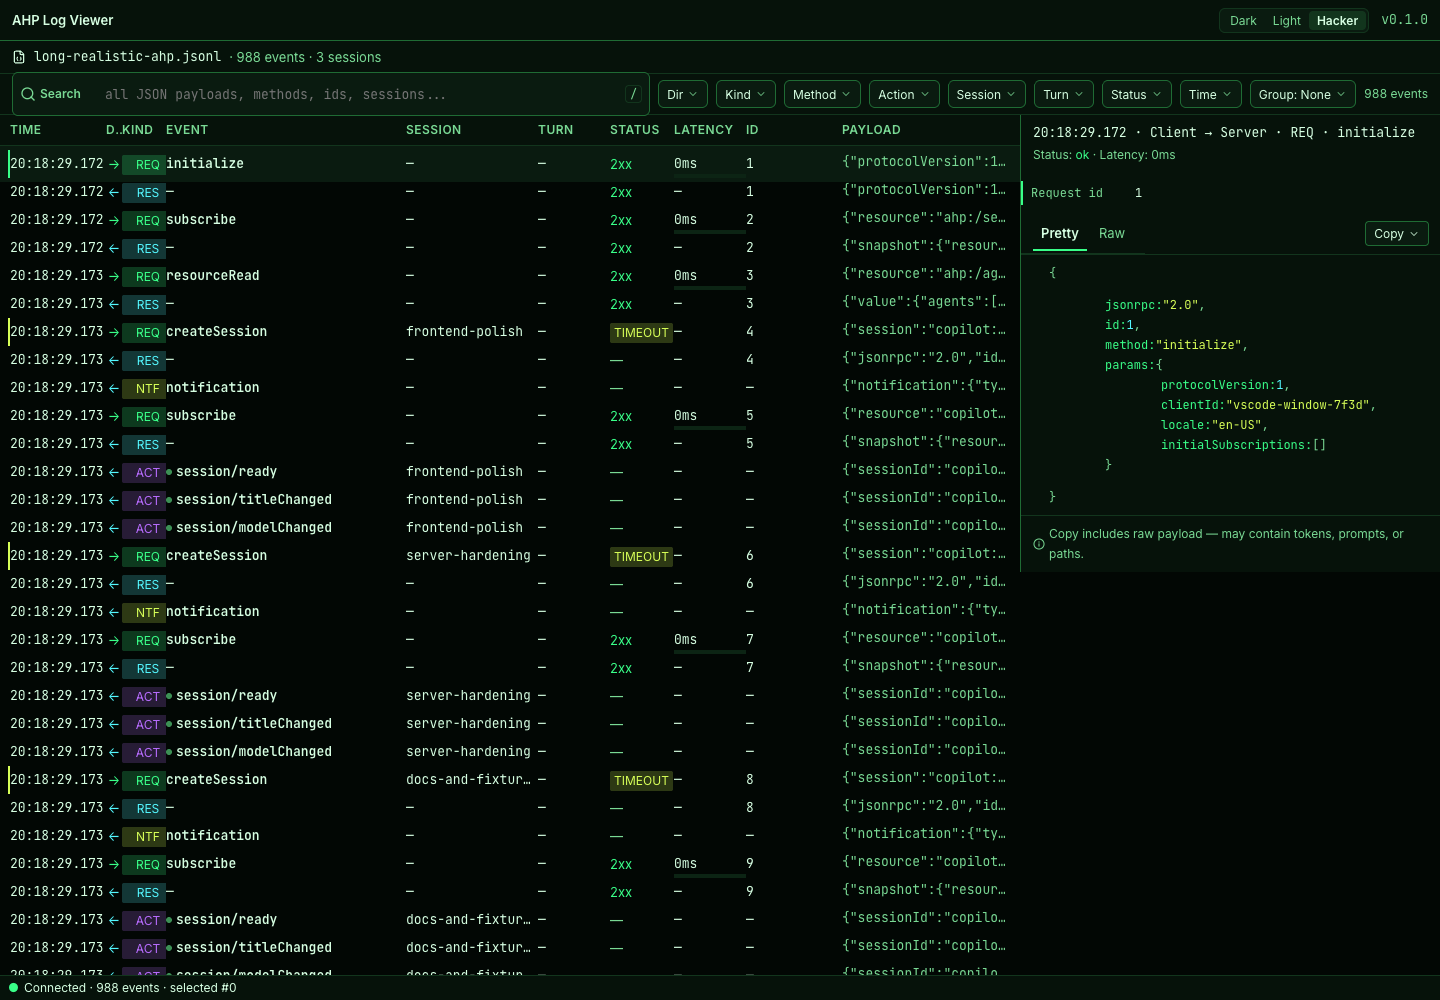
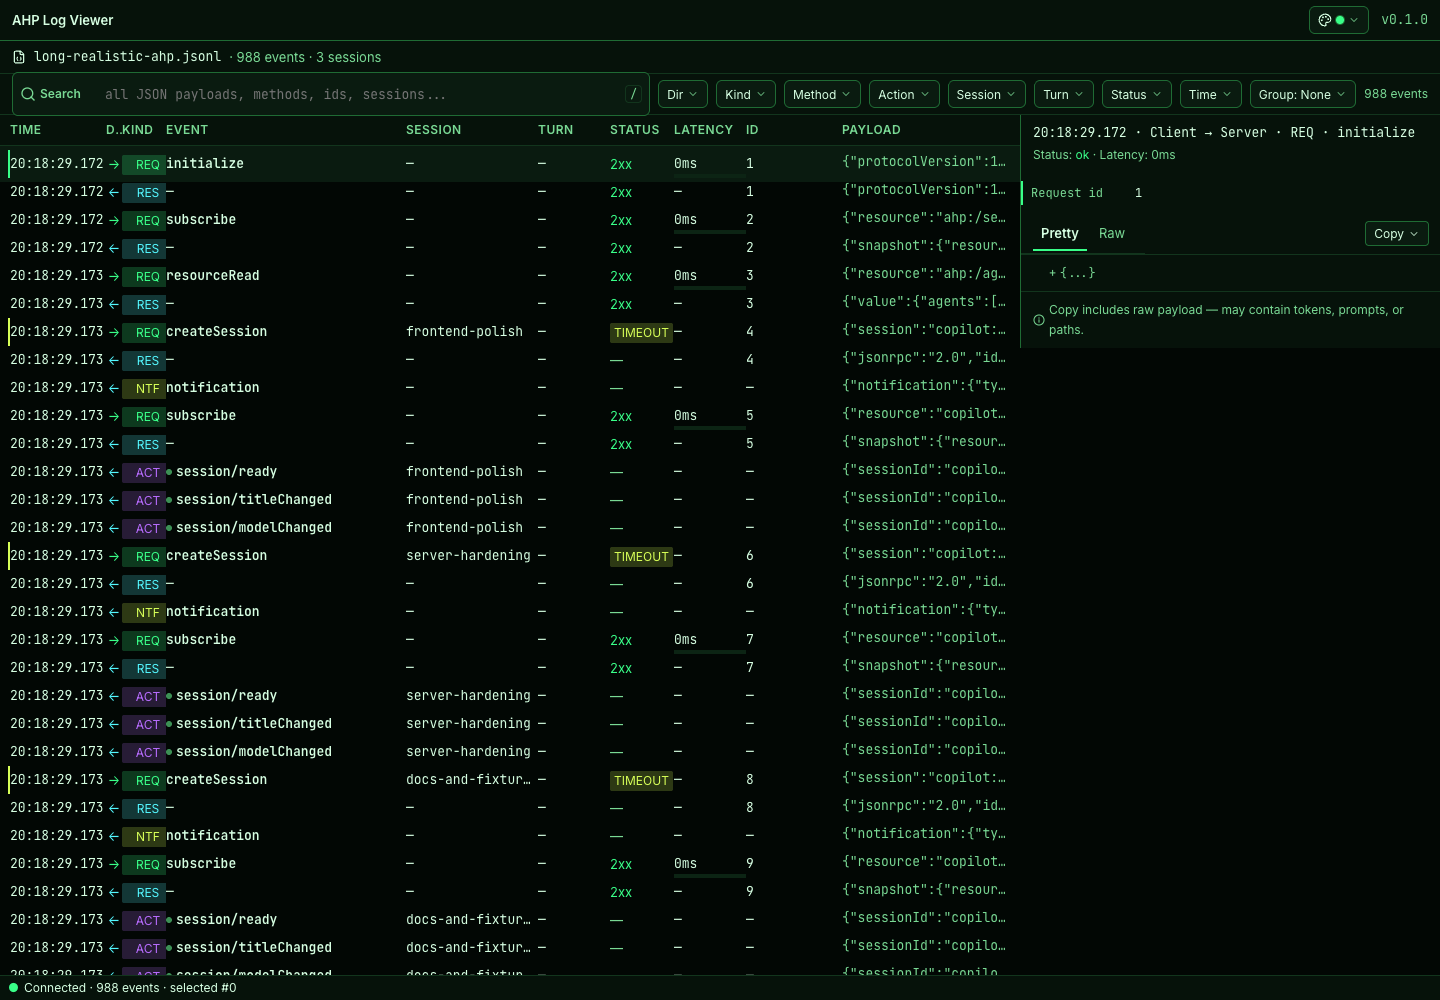
fix(ui): tuck theme picker into menu

Changed region(s): [[0.7188, 0.279, 0.9062, 0.465], [0.7188, 0.527, 0.9688, 0.558], [0.8438, 0.0, 0.9688, 0.031]]

diff --git a/packages/ui/src/components/shell/HeaderBar.tsx b/packages/ui/src/components/shell/HeaderBar.tsx
@@ -1,5 +1,6 @@
+import { Check, ChevronDown, Palette } from "lucide-react";
 import type { JSX } from "react";
-import { useState } from "react";
+import { useEffect, useRef, useState } from "react";
 import { __APP_VERSION__ } from "../../version.js";
 
 interface HeaderBarProps {
@@ -14,6 +15,12 @@ const THEMES = [
 
 type ThemeId = (typeof THEMES)[number]["id"];
 
+const THEME_LABEL: Record<ThemeId, string> = {
+  dark: "Dark",
+  light: "Light",
+  hacker: "Hacker",
+};
+
 function readTheme(): ThemeId {
   const attr = document.documentElement.getAttribute("data-theme");
   return attr === "light" || attr === "hacker" ? attr : "dark";
@@ -21,6 +28,19 @@ function readTheme(): ThemeId {
 
 export function HeaderBar({ version }: HeaderBarProps): JSX.Element {
   const [theme, setThemeState] = useState<ThemeId>(readTheme);
+  const [isThemeMenuOpen, setIsThemeMenuOpen] = useState(false);
+  const themeMenuRef = useRef<HTMLDivElement>(null);
+
+  useEffect(() => {
+    function handleMouseDown(event: MouseEvent): void {
+      if (themeMenuRef.current && !themeMenuRef.current.contains(event.target as Node)) {
+        setIsThemeMenuOpen(false);
+      }
+    }
+
+    document.addEventListener("mousedown", handleMouseDown);
+    return () => document.removeEventListener("mousedown", handleMouseDown);
+  }, []);
 
   function setTheme(next: ThemeId): void {
     document.documentElement.setAttribute("data-theme", next);
@@ -30,6 +50,7 @@ export function HeaderBar({ version }: HeaderBarProps): JSX.Element {
       // Ignore unavailable storage; the selected theme still applies for this page.
     }
     setThemeState(next);
+    setIsThemeMenuOpen(false);
   }
 
   return (
@@ -48,56 +69,97 @@ export function HeaderBar({ version }: HeaderBarProps): JSX.Element {
     >
       <span style={{ fontWeight: 600 }}>AHP Log Viewer</span>
       <div style={{ display: "flex", alignItems: "center", gap: "var(--space-3)" }}>
-        <fieldset
-          style={{
-            display: "inline-flex",
-            padding: 2,
-            border: "1px solid var(--color-border)",
-            borderRadius: 6,
-            background: "var(--color-surface-raised)",
-            margin: 0,
-          }}
-        >
-          <legend
+        <div ref={themeMenuRef} style={{ position: "relative" }}>
+          <button
+            type="button"
+            aria-label={`Theme picker (${THEME_LABEL[theme]})`}
+            aria-haspopup="menu"
+            aria-expanded={isThemeMenuOpen}
+            title={`Theme: ${THEME_LABEL[theme]}`}
+            onClick={() => setIsThemeMenuOpen((open) => !open)}
+            onMouseDown={(event) => event.stopPropagation()}
             style={{
-              position: "absolute",
-              width: 1,
-              height: 1,
-              padding: 0,
-              margin: -1,
-              overflow: "hidden",
-              clip: "rect(0, 0, 0, 0)",
-              whiteSpace: "nowrap",
-              border: 0,
+              display: "inline-flex",
+              alignItems: "center",
+              gap: "var(--space-1)",
+              height: 28,
+              padding: "0 var(--space-2)",
+              background: isThemeMenuOpen ? "var(--color-chip-bg-active)" : "var(--color-chip-bg)",
+              border: "1px solid var(--color-chip-border)",
+              borderRadius: 6,
+              color: "var(--color-chip-fg)",
+              cursor: "pointer",
+              fontFamily: "var(--font-sans)",
+              outline: "none",
             }}
           >
-            Theme
-          </legend>
-          {THEMES.map((option) => {
-            const active = theme === option.id;
-            return (
-              <button
-                key={option.id}
-                type="button"
-                aria-pressed={active}
-                onClick={() => setTheme(option.id)}
-                style={{
-                  border: "none",
-                  borderRadius: 4,
-                  padding: "2px var(--space-2)",
-                  background: active ? "var(--color-chip-bg-active)" : "transparent",
-                  color: active ? "var(--color-text)" : "var(--color-text-muted)",
-                  cursor: "pointer",
-                  fontFamily: "var(--font-sans)",
-                  fontSize: "var(--text-ui-muted-size)",
-                  fontWeight: active ? "var(--weight-semibold)" : "var(--weight-regular)",
-                }}
-              >
-                {option.label}
-              </button>
-            );
-          })}
-        </fieldset>
+            <Palette size={14} aria-hidden="true" />
+            <span
+              aria-hidden="true"
+              style={{
+                width: 8,
+                height: 8,
+                borderRadius: "50%",
+                background: "var(--color-accent)",
+                boxShadow: "0 0 0 1px var(--color-border-strong)",
+              }}
+            />
+            <ChevronDown
+              size={12}
+              aria-hidden="true"
+              style={{ color: "var(--color-chip-fg-muted)" }}
+            />
+          </button>
+          {isThemeMenuOpen && (
+            <div
+              role="menu"
+              aria-label="Theme"
+              style={{
+                position: "absolute",
+                top: "calc(100% + 4px)",
+                right: 0,
+                zIndex: 1200,
+                minWidth: 148,
+                padding: "var(--space-1) 0",
+                background: "var(--color-surface-raised)",
+                border: "1px solid var(--color-border-strong)",
+                borderRadius: 6,
+                boxShadow: "0 8px 24px rgba(0,0,0,0.35)",
+              }}
+            >
+              {THEMES.map((option) => {
+                const active = theme === option.id;
+                return (
+                  <button
+                    key={option.id}
+                    type="button"
+                    role="menuitemradio"
+                    aria-checked={active}
+                    onClick={() => setTheme(option.id)}
+                    style={{
+                      width: "100%",
+                      display: "flex",
+                      alignItems: "center",
+                      justifyContent: "space-between",
+                      gap: "var(--space-3)",
+                      padding: "var(--space-1) var(--space-3)",
+                      background: active ? "var(--color-chip-bg-active)" : "transparent",
+                      border: "none",
+                      color: active ? "var(--color-text)" : "var(--color-text-muted)",
+                      cursor: "pointer",
+                      fontFamily: "var(--font-sans)",
+                      fontSize: "var(--text-ui-muted-size)",
+                      textAlign: "left",
+                    }}
+                  >
+                    <span>{option.label}</span>
+                    {active && <Check size={12} aria-hidden="true" />}
+                  </button>
+                );
+              })}
+            </div>
+          )}
+        </div>
         <span className="mono" style={{ color: "var(--color-text-muted)" }}>
           v{version}
         </span>

diff --git a/packages/ui/src/components/shell/HeaderBar.test.tsx b/packages/ui/src/components/shell/HeaderBar.test.tsx
@@ -14,19 +14,43 @@ afterEach(() => {
 });
 
 describe("HeaderBar theme switcher", () => {
-  it("renders dark, light, and hacker theme controls", () => {
+  it("keeps theme names inside a compact picker menu", () => {
     render(<HeaderBar version="0.1.0" />);
-    expect(screen.getByRole("button", { name: "Dark" })).toBeInTheDocument();
-    expect(screen.getByRole("button", { name: "Light" })).toBeInTheDocument();
-    expect(screen.getByRole("button", { name: "Hacker" })).toBeInTheDocument();
+    expect(screen.getByRole("button", { name: /theme picker/i })).toBeInTheDocument();
+    expect(screen.queryByText("Dark")).toBeNull();
+    expect(screen.queryByText("Light")).toBeNull();
+    expect(screen.queryByText("Hacker")).toBeNull();
+
+    fireEvent.click(screen.getByRole("button", { name: /theme picker/i }));
+
+    expect(screen.getByRole("menuitemradio", { name: "Dark" })).toBeInTheDocument();
+    expect(screen.getByRole("menuitemradio", { name: "Light" })).toBeInTheDocument();
+    expect(screen.getByRole("menuitemradio", { name: "Hacker" })).toBeInTheDocument();
   });
 
   it("applies and persists the selected light theme", () => {
     render(<HeaderBar version="0.1.0" />);
-    fireEvent.click(screen.getByRole("button", { name: "Light" }));
+    fireEvent.click(screen.getByRole("button", { name: /theme picker/i }));
+    fireEvent.click(screen.getByRole("menuitemradio", { name: "Light" }));
 
     expect(document.documentElement.getAttribute("data-theme")).toBe("light");
     expect(localStorage.getItem("ahp-theme")).toBe("light");
-    expect(screen.getByRole("button", { name: "Light" }).getAttribute("aria-pressed")).toBe("true");
+    expect(screen.queryByRole("menu")).toBeNull();
+    expect(screen.getByRole("button", { name: /theme picker/i })).toHaveAccessibleName(
+      "Theme picker (Light)",
+    );
+  });
+
+  it("closes the theme menu when the picker is clicked again", () => {
+    render(<HeaderBar version="0.1.0" />);
+    const picker = screen.getByRole("button", { name: /theme picker/i });
+
+    fireEvent.click(picker);
+    expect(screen.getByRole("menu")).toBeInTheDocument();
+
+    fireEvent.mouseDown(picker);
+    fireEvent.click(picker);
+
+    expect(screen.queryByRole("menu")).toBeNull();
   });
 });

diff --git a/packages/ui/src/components/detail/PrettyJsonView.test.tsx b/packages/ui/src/components/detail/PrettyJsonView.test.tsx
@@ -1,4 +1,4 @@
-import { cleanup, render, screen } from "@testing-library/react";
+import { cleanup, fireEvent, render, screen } from "@testing-library/react";
 import { afterEach, describe, expect, it } from "vitest";
 import { PrettyJsonView } from "./PrettyJsonView.js";
 
@@ -12,5 +12,23 @@ describe("PrettyJsonView", () => {
     expect(container.querySelector(".ahp-json-container")).toBeTruthy();
     expect(container.querySelector(".ahp-json-label")).toBeTruthy();
     expect(container.querySelector(".ahp-json-boolean")).toBeTruthy();
+  });
+
+  it("keeps object nodes expandable and collapsible", () => {
+    const { container } = render(
+      <PrettyJsonView data={{ params: { resource: "ahp:/sessions" } }} />,
+    );
+    expect(screen.getByText('"ahp:/sessions"')).toBeInTheDocument();
+
+    const paramsLabel = Array.from(container.querySelectorAll(".ahp-json-clickable-label")).find(
+      (node) => node.textContent?.includes("params"),
+    );
+    expect(paramsLabel).toBeTruthy();
+
+    fireEvent.click(paramsLabel as Element);
+    expect(screen.queryByText('"ahp:/sessions"')).toBeNull();
+
+    fireEvent.click(paramsLabel as Element);
+    expect(screen.getByText('"ahp:/sessions"')).toBeInTheDocument();
   });
 });

diff --git a/packages/ui/src/components/timeline/cells/ActionDot.test.tsx b/packages/ui/src/components/timeline/cells/ActionDot.test.tsx
@@ -20,6 +20,9 @@ describe("ActionDot — UI-SPEC §5.4", () => {
     render(<ActionDot family={family} />);
     const el = screen.getByTestId("action-dot");
     expect(el.getAttribute("data-family")).toBe(family);
-    expect(el.getAttribute("title")).toBe(`Action family: ${family}`);
+    expect(el.getAttribute("aria-label")).toBe(`Action row family: ${family}`);
+    expect(el.getAttribute("title")).toBe(
+      `Action row family: ${family}. Only action events show this marker.`,
+    );
   });
 });

diff --git a/packages/ui/src/components/timeline/cells/ActionDot.tsx b/packages/ui/src/components/timeline/cells/ActionDot.tsx
@@ -15,7 +15,9 @@ export function ActionDot({ family }: { family: ActionFamily | null }): JSX.Elem
     <span
       data-testid="action-dot"
       data-family={family}
-      title={`Action family: ${family}`}
+      role="img"
+      aria-label={`Action row family: ${family}`}
+      title={`Action row family: ${family}. Only action events show this marker.`}
       style={{
         display: "inline-block",
         width: 6,

diff --git a/packages/ui/src/styles/global.css b/packages/ui/src/styles/global.css
@@ -100,3 +100,21 @@ body {
 .ahp-json-collapsed {
   color: var(--color-json-punctuation);
 }
+.ahp-json-expander {
+  cursor: pointer;
+  display: inline-block;
+  width: 1.5ch;
+  user-select: none;
+}
+.ahp-json-expander::before {
+  content: "+";
+}
+.ahp-json-expander[aria-expanded="true"]::before {
+  content: "-";
+}
+.ahp-json-collapsed {
+  cursor: pointer;
+}
+.ahp-json-collapsed::before {
+  content: "...";
+}

diff --git a/packages/ui/src/components/detail/PrettyJsonView.tsx b/packages/ui/src/components/detail/PrettyJsonView.tsx
@@ -79,6 +79,7 @@ export function PrettyJsonView({
       <JsonView
         data={data as object}
         shouldExpandNode={(level: number) => level < 2}
+        clickToExpandNode
         style={JSON_STYLES}
       />
     </div>

diff --git a/USER_GUIDE.md b/USER_GUIDE.md
@@ -20,7 +20,7 @@ The CLI prints a loopback URL, opens the browser by default, and serves the UI l
 
 ## Choose a theme
 
-Use the **Dark**, **Light**, and **Hacker** buttons in the header to switch the app appearance. The selection is saved in the browser and applies to the timeline, filters, detail panel, and Pretty JSON syntax colors.
+Use the compact theme picker in the header to switch between **Dark**, **Light**, and **Hacker**. The selection is saved in the browser and applies to the timeline, filters, detail panel, and Pretty JSON syntax colors.
 
 ![Hacker theme with column labels](screenshots/phase3-hacker-theme-columns.png)
 
@@ -131,7 +131,7 @@ The top of the panel shows the core AHP fields in a structured strip with colore
 
 ### Pretty vs Raw tab
 
-- **Pretty** — expandable JSON tree rendered by react-json-view-lite. Payloads larger than 256 KB show a truncation warning.
+- **Pretty** — expandable JSON tree rendered by react-json-view-lite. Click a node label or its +/- marker to collapse or expand it. Payloads larger than 256 KB show a truncation warning.
 - **Raw** — monospace `<pre>` block containing the full raw JSON for copy-paste.
 
 ![Detail panel Raw JSON view](screenshots/phase3-detail-raw.png)
